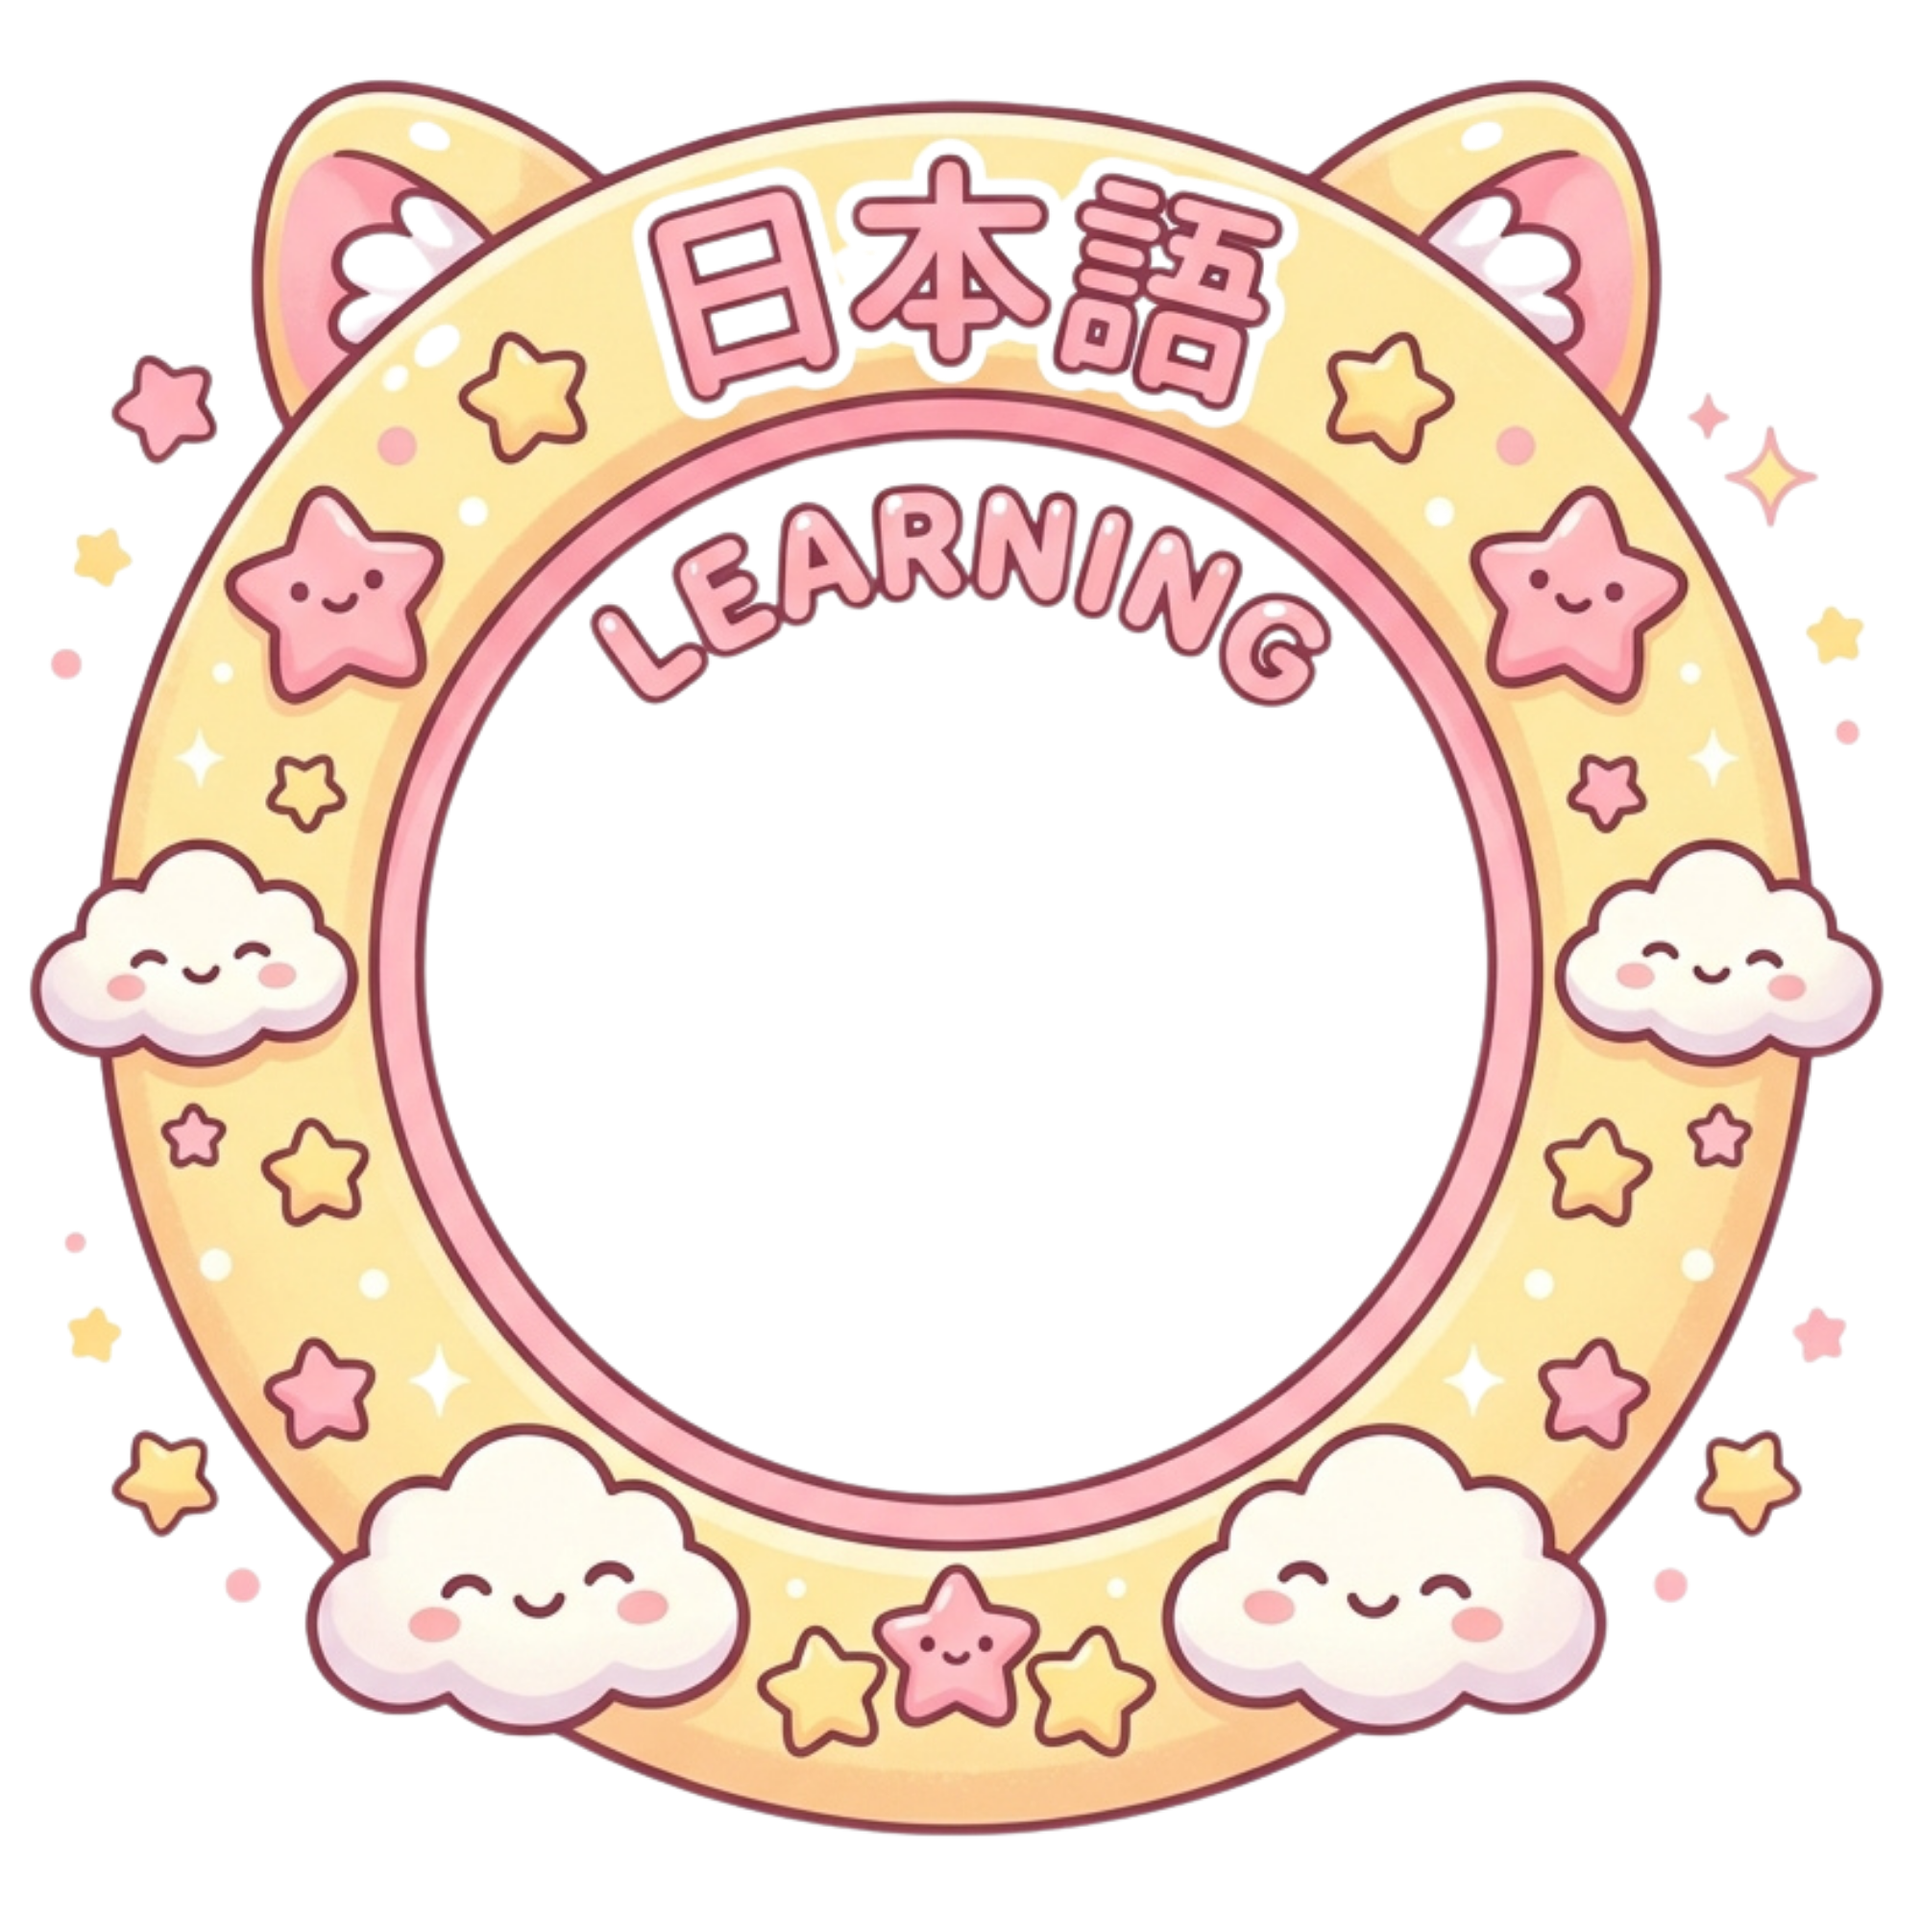
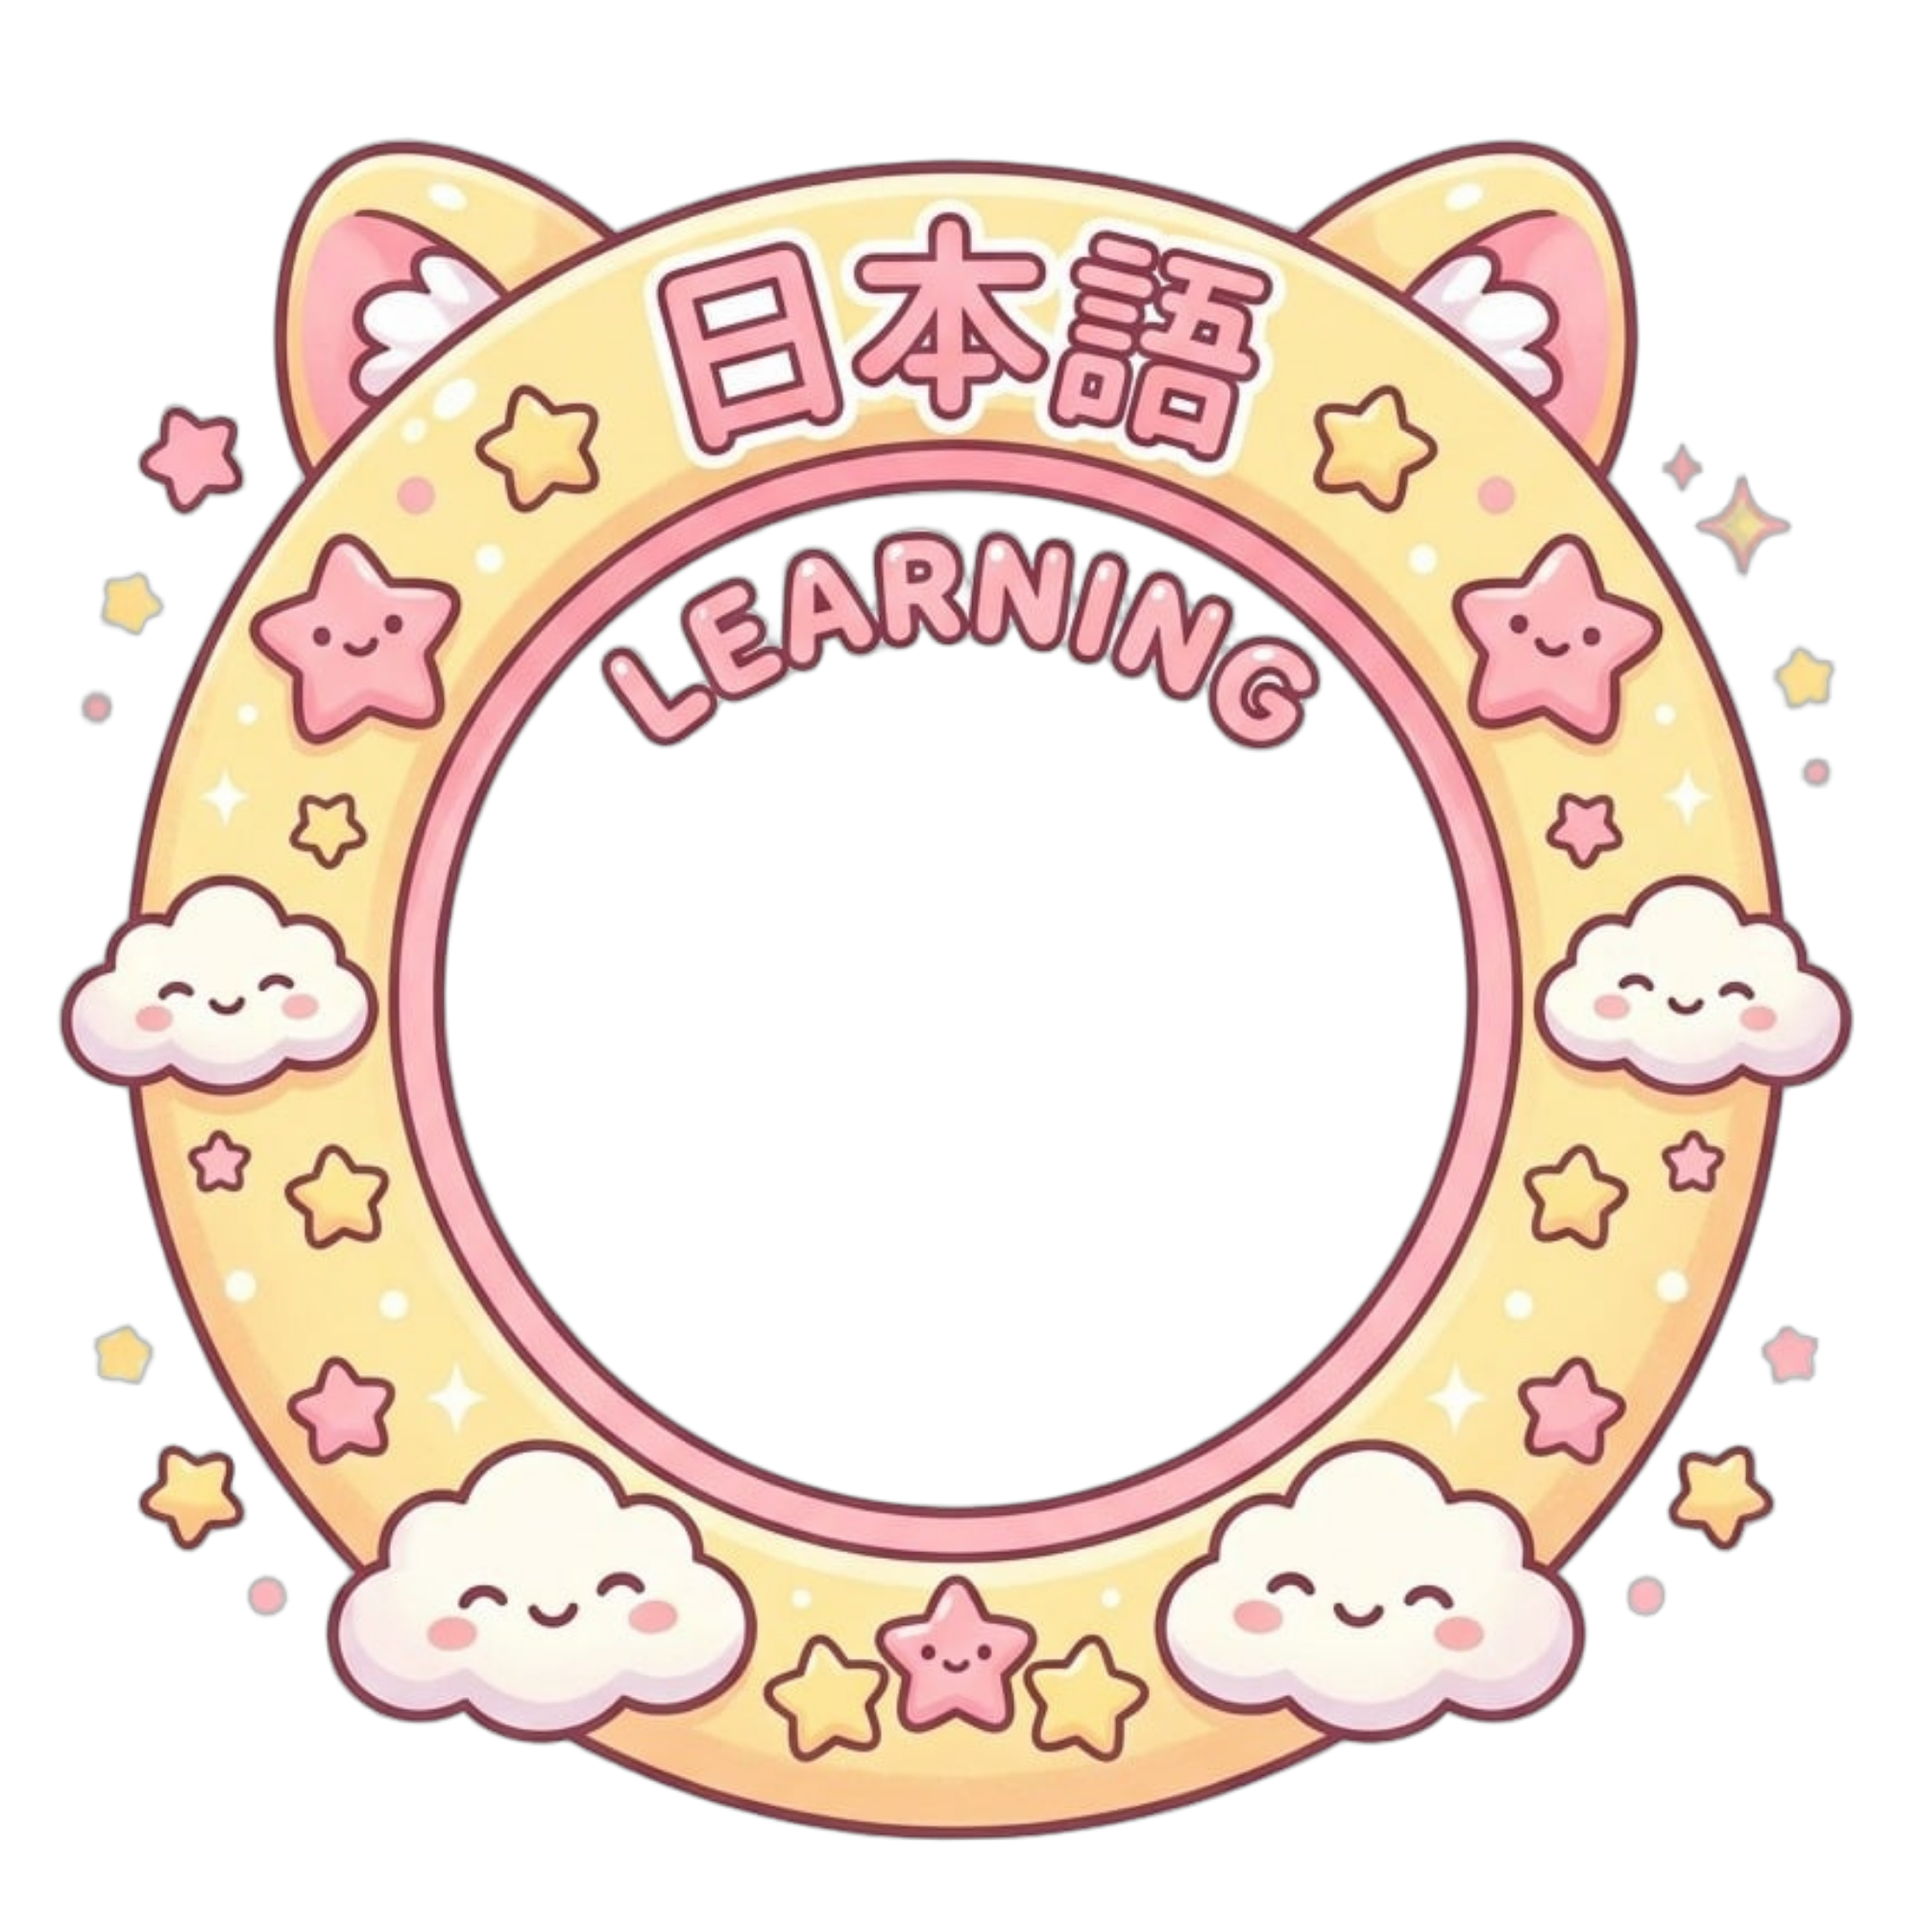
Add files via upload

diff --git a/toko-item.js b/toko-item.js
@@ -20,7 +20,7 @@
      bingkai (gambar)  gambar: 'bingkai-naga.png'   PNG transparan, lubang bundar di tengah, satu folder dengan index.html
                        skala:  38                   (opsional) seberapa jauh bingkai keluar dari foto, dalam %. Makin besar = makin lebar
      bingkai (CSS)     tanpa 'gambar'; gayanya ditulis sendiri di index.html sebagai html .mm-avatar.ID { ... } (lihat bk-sakura)
-     gelar             tidak ada kolom tambahan
+     gelar             gambar: 'icon-scholar.png'   (opsional) ikon gambar PNG, satu folder dengan index.html; tanpa 'gambar' dipakai emoji 'ico'
      tema              latar: 'linear-gradient(135deg,#fbcfe8,#ddd6fe)'   (opsional) latar halaman; bisa juga "url(tema/sakura.jpg) center/cover"
                        atau tanpa 'latar' dan tulis gaya sendiri di index.html sebagai html.ID { ... }  (ID = id item)
      musik             url: 'musik/sakura.mp3'      alamat file mp3 (satu folder dengan index.html atau alamat penuh https://...)
@@ -33,16 +33,30 @@
    ===================================================================== */
 var TOKO_ITEM = [
   // ---------- BINGKAI ----------
-  { id: 'bk-sakura',  jenis: 'bingkai', nama: 'Bingkai Sakura',  ico: '🌸', ket: 'Bingkai merah muda lembut',          harga: 50 },
-  { id: 'bk-emas',    jenis: 'bingkai', nama: 'Bingkai Emas',    ico: '🟡', ket: 'Bingkai emas berkilau',              harga: 100 },
-  { id: 'bk-pelangi', jenis: 'bingkai', nama: 'Bingkai Pelangi', ico: '  ', ket: 'Bingkai warna-warni animasi',        harga: 250 },
-  { id: 'bk-naga',    jenis: 'bingkai', nama: 'Bingkai Naga',    ico: '  ', ket: 'Bingkai langka bergambar naga emas', harga: 3000, gambar: 'bingkai-naga.png',  skala: 35, x: -3, y: -2 },
-  { id: 'bk-kawai',   jenis: 'bingkai', nama: 'Bingkai Kawai',   ico: '  ', ket: 'Bingkai gambar bertema kawai', harga: 3000, gambar: 'bingkai-kawai.png', skala: 38 },
+  { id: 'bk-sakura',        jenis: 'bingkai', nama: 'Bingkai Sakura',        ico: '🌸', ket: 'Bingkai merah muda lembut',               harga: 50 },
+  { id: 'bk-emas',          jenis: 'bingkai', nama: 'Bingkai Emas',          ico: '🟡', ket: 'Bingkai emas berkilau',                   harga: 100 },
+  { id: 'bk-pelangi',       jenis: 'bingkai', nama: 'Bingkai Pelangi',       ico: '🌈', ket: 'Bingkai warna-warni animasi',             harga: 250 },
+  { id: 'bk-hiraganahero',  jenis: 'bingkai', nama: 'Bingkai Hiragana Hero', ico: '', ket: 'Kucing berikat kepala di bingkai sakura', harga: 800,  gambar: 'bingkai-hiraganahero.png',  skala: 35 },
+  { id: 'bk-navigator',     jenis: 'bingkai', nama: 'Bingkai Navigator',     ico: '', ket: 'Panda penjelajah di bingkai hijau',       harga: 1200, gambar: 'bingkai-navigator.png',     skala: 35 },
+  { id: 'bk-scholar',       jenis: 'bingkai', nama: 'Bingkai Scholar',       ico: '', ket: 'Beruang cendekia di bingkai bintang',     harga: 1500, gambar: 'bingkai-scholar.png',       skala: 35 },
+  { id: 'bk-seitolegend',   jenis: 'bingkai', nama: 'Bingkai Seito Legend',  ico: '', ket: 'Shiba legendaris di bingkai emas',        harga: 2000, gambar: 'bingkai-seitolegend.png',   skala: 35 },
+  { id: 'bk-kotobacolector',jenis: 'bingkai', nama: 'Bingkai Kotoba Collector', ico: '', ket: 'Kelinci manis di bingkai ungu berbintang', harga: 2500, gambar: 'bingkai-kotobacolector.png', skala: 35 },
+  { id: 'bk-naga',          jenis: 'bingkai', nama: 'Bingkai Naga',          ico: '', ket: 'Bingkai langka bergambar naga emas',      harga: 3000, gambar: 'bingkai-naga.png',  skala: 35, x: -3, y: -2 },
+  { id: 'bk-kawai',         jenis: 'bingkai', nama: 'Bingkai Kawai',         ico: '', ket: 'Bingkai gambar bertema kawai',            harga: 3000, gambar: 'bingkai-kawai.png', skala: 38 },
 
   // ---------- GELAR ----------
-  { id: 'gl-pemula',  jenis: 'gelar',   nama: 'Pelajar Rajin',   ico: '📘', ket: 'Gelar untuk pelajar tekun',          harga: 40 },
-  { id: 'gl-samurai', jenis: 'gelar',   nama: 'Samurai Kotoba',  ico: '⚔', ket: 'Gelar penakluk kosakata',            harga: 120 },
-  { id: 'gl-ninja',   jenis: 'gelar',   nama: 'Ninja Kanji',     ico: '🥷', ket: 'Gelar penguasa kanji',               harga: 200 }
+  { id: 'gl-pemula',        jenis: 'gelar',   nama: 'Pelajar Rajin',   ico: '📘', ket: 'Gelar untuk pelajar tekun',          harga: 40 },
+  { id: 'gl-samurai',       jenis: 'gelar',   nama: 'Samurai Kotoba',  ico: '⚔', ket: 'Gelar penakluk kosakata',            harga: 120 },
+  { id: 'gl-ninja',         jenis: 'gelar',   nama: 'Ninja Kanji',     ico: '🥷', ket: 'Gelar penguasa kanji',               harga: 200 },
+  { id: 'gl-hiraganahero',  jenis: 'gelar',   nama: 'Hiragana Hero',      ico: '', ket: 'Pahlawan hiragana',                  harga: 300,  gambar: 'icon-hiraganahero.png' },
+  { id: 'gl-kotobacolector',jenis: 'gelar',   nama: 'Kotoba Collector',   ico: '', ket: 'Kolektor kosakata sejati',           harga: 400,  gambar: 'icon-kotobacolector.png' },
+  { id: 'gl-scholar',       jenis: 'gelar',   nama: 'Scholar',            ico: '', ket: 'Si cendekia yang rajin membaca',     harga: 500,  gambar: 'icon-scholar.png' },
+  { id: 'gl-nihongonavigator', jenis: 'gelar', nama: 'Nihongo Navigator', ico: '', ket: 'Penjelajah bahasa Jepang',           harga: 600,  gambar: 'icon-nihongonavigator.png' },
+  { id: 'gl-bunpoumaster',  jenis: 'gelar',   nama: 'Bunpou Master',      ico: '', ket: 'Penguasa tata bahasa',               harga: 800,  gambar: 'icon-bunpoumaster.png' },
+  { id: 'gl-kanjiconqueror',jenis: 'gelar',   nama: 'Kanji Conqueror',    ico: '', ket: 'Penakluk kanji',                     harga: 1000, gambar: 'icon-kanjiconqueror.png' },
+  { id: 'gl-katsudou',      jenis: 'gelar',   nama: 'Katsudou',           ico: '', ket: 'Selalu aktif dan bersemangat',       harga: 1200, gambar: 'icon-katsudou.png' },
+  { id: 'gl-seitolegend',   jenis: 'gelar',   nama: 'Seito Legend',       ico: '', ket: 'Murid legendaris',                   harga: 1500, gambar: 'icon-seitolegend.png' },
+  { id: 'gl-chiennokishi',  jenis: 'gelar',   nama: 'Chie no Kishi',      ico: '', ket: 'Ksatria kebijaksanaan',              harga: 2000, gambar: 'icon-chiennokishi.png' }
 
   // ---------- TEMA ----------
   // (belum ada — lihat CONTOH di atas)

diff --git a/kotoba-app.js b/kotoba-app.js
@@ -875,7 +875,8 @@ function tokoSiapkan() {
     if (!it.nama) { tokoMasalah.push(tag + ' nama kosong'); return; }
     if (isNaN(Number(it.harga)) || Number(it.harga) < 0 || it.harga === '' || it.harga === null) { tokoMasalah.push(tag + ' harga tidak valid'); return; }
     if (it.jenis === 'musik' && !it.url) { tokoMasalah.push(tag + ' musik butuh url'); return; }
-    it.harga = Number(it.harga); it.ico = it.ico || '🎁'; it.ket = it.ket || '';
+    it.harga = Number(it.harga); it.ico = it.ico || (it.gambar ? '' : '🎁'); it.ket = it.ket || '';
+    if (it.jenis === 'gelar' && it.gambar) it.gambar = String(it.gambar).replace(/['"<>\\\s]/g, '');   // gelar bergambar: aman dipasang di atribut HTML
     lihat[it.id] = 1; bagus.push(it);
     if (it.jenis === 'bingkai' && it.gambar) {
       var sk = Number(it.skala) > 0 ? Number(it.skala) : 38;                    // seberapa jauh bingkai keluar dari foto (%)
@@ -915,6 +916,11 @@ var ADMIN_AKUN = ['admin'];
 var KOIN_ADMIN = 9999;
 function koinAdmin() { return ADMIN_AKUN.indexOf(String(studentName || '').toLowerCase()) !== -1; }
 var tokoKonfirm = '', tokoKonfirmT = null;
+// ikon gelar: gambar PNG (field 'gambar') bila ada, kalau tidak pakai emoji (field 'ico')
+function gelarIko(it) {
+  if (it && it.gambar) return '<img class="gl-img" src="' + it.gambar + '" alt="">';
+  return kanaEsc(it ? it.ico : '');
+}
 function tokoItem(id) {
   for (var i = 0; i < TOKO_ITEM.length; i++) if (TOKO_ITEM[i].id === id) return TOKO_ITEM[i];
   return null;
@@ -964,7 +970,7 @@ function tokoRender() {
       else if (saldo >= it.harga) aksi = '<button type="button" class="tk-btn beli" onclick="tokoBeli(\'' + it.id + '\')">' +
         (tokoKonfirm === it.id ? 'Yakin? ' : '') + koinImg('kecil') + ' ' + fmtAngka(it.harga) + '</button>';
       else aksi = '<button type="button" class="tk-btn kurang" disabled>' + koinImg('kecil') + ' ' + fmtAngka(it.harga) + '</button>';
-      h += '<div class="tk-item' + (pakai ? ' dipakai' : '') + '"><span class="tk-ico' + (it.jenis === 'bingkai' ? ' ' + it.id : '') + '">' + it.ico + '</span>' +
+      h += '<div class="tk-item' + (pakai ? ' dipakai' : '') + '"><span class="tk-ico' + (it.jenis === 'bingkai' ? ' ' + it.id : '') + '">' + (it.jenis === 'gelar' ? gelarIko(it) : it.ico) + '</span>' +
         '<span class="tk-txt"><b>' + kanaEsc(it.nama) + '</b><small>' + kanaEsc(pakai ? 'Sedang dipakai' : (punya ? 'Sudah dimiliki' : it.ket)) + '</small></span>' + aksi + '</div>';
     });
   });
@@ -1037,13 +1043,13 @@ function terapkanDekorasi() {
   var g = document.getElementById('pf-gelar');
   if (g) {
     var it = tokoItem(achState.pakai.gelar || ''), ok = !!(it && achState.beli[it.id] != null);
-    g.textContent = ok ? it.ico + ' ' + it.nama : '';
+    g.innerHTML = ok ? gelarIko(it) + ' ' + kanaEsc(it.nama) : '';
     g.classList.toggle('hidden', !ok);
   }
   var gm = document.getElementById('mm-gelar');     // gelar di Menu Utama
   if (gm) {
     var it2 = tokoItem(achState.pakai.gelar || ''), ok2 = !!(it2 && achState.beli[it2.id] != null);
-    gm.textContent = ok2 ? it2.ico + ' ' + it2.nama : '';
+    gm.innerHTML = ok2 ? gelarIko(it2) + ' ' + kanaEsc(it2.nama) : '';
     gm.classList.toggle('hidden', !ok2);
   }
 }
